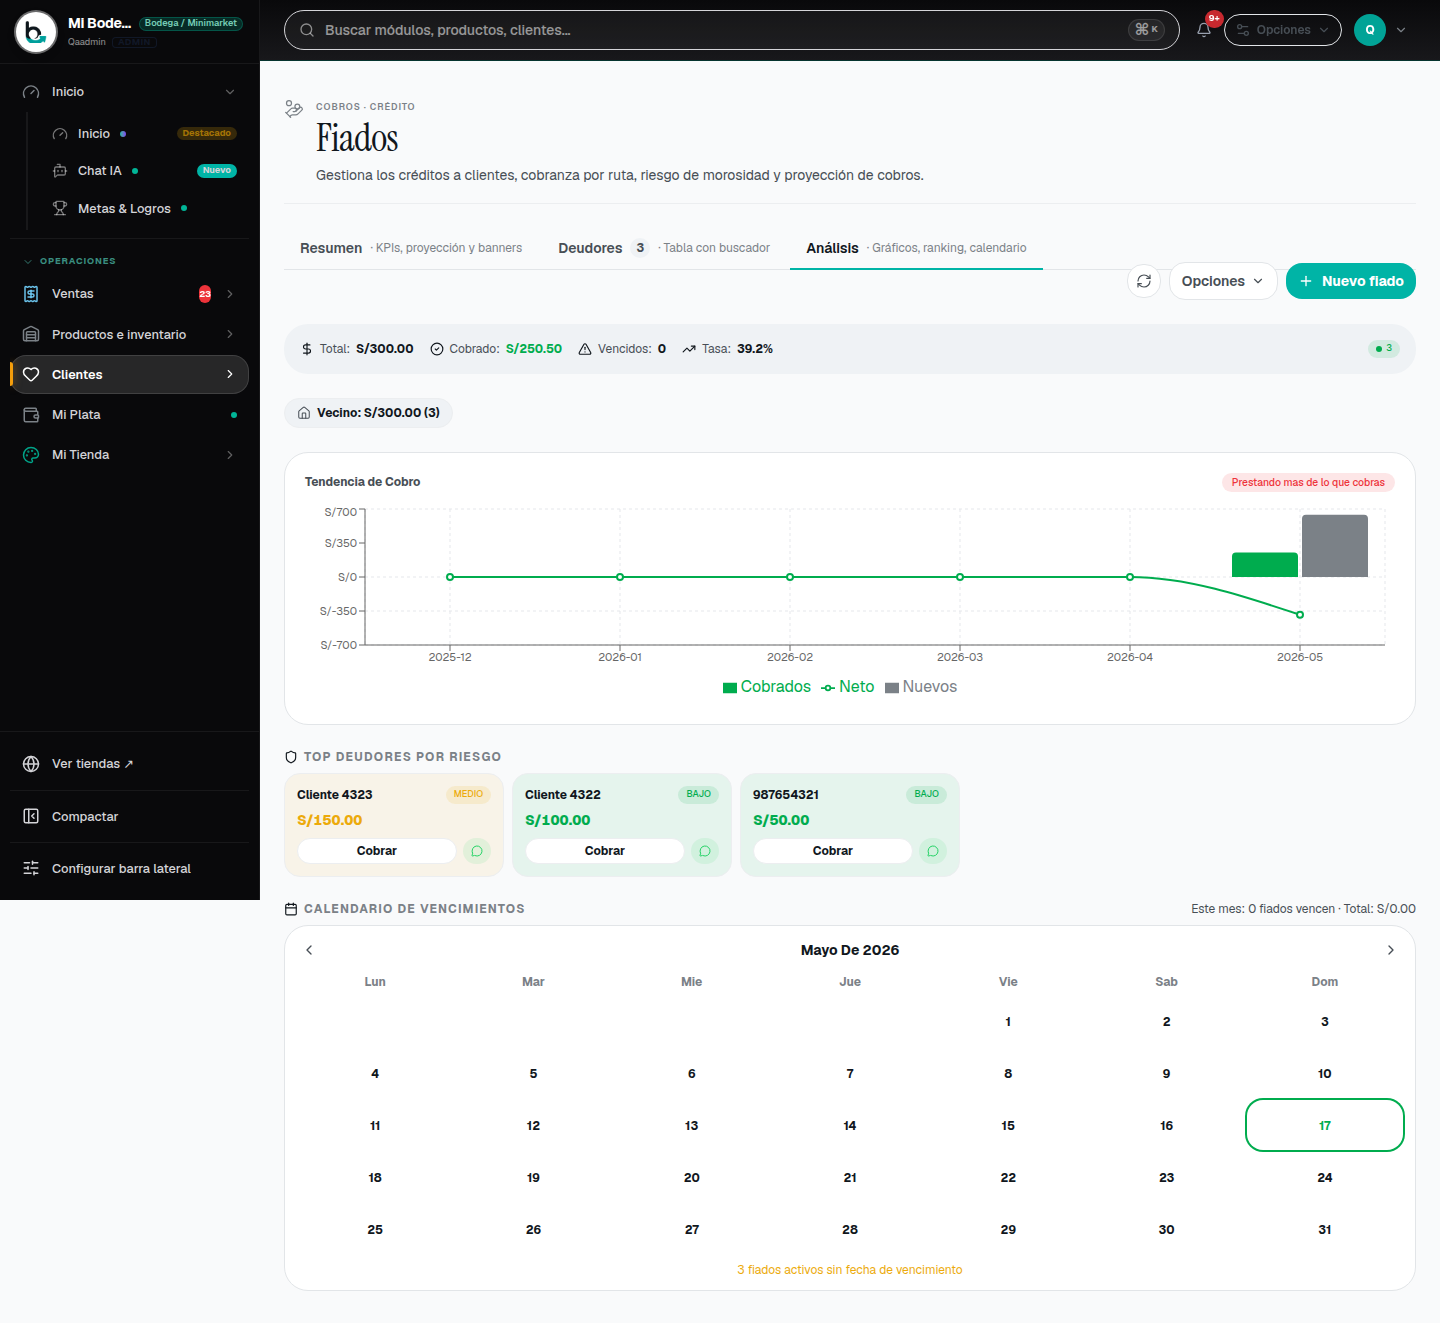
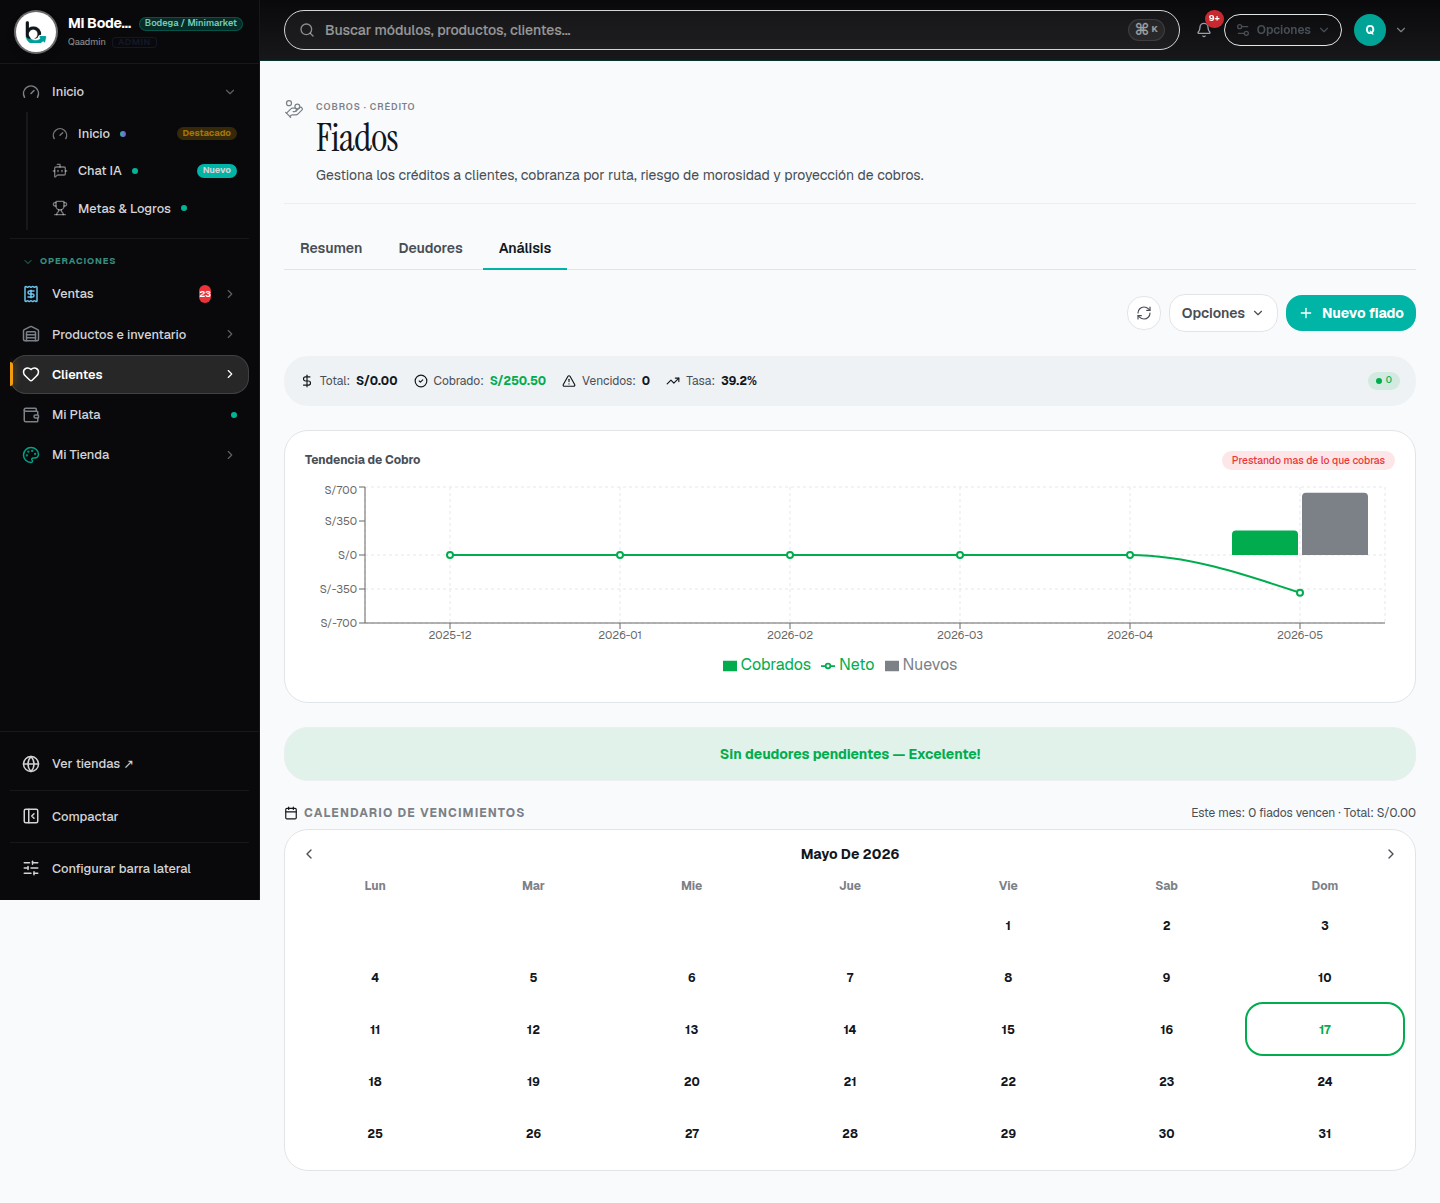
fix(fiados): tabs solo título + respiro entre tab nav y filtros (Deudores)
Brandon feedback:
  "pon solo el titulo (quita el texto descriptivo como 'KPIs, proyección'),
   y en deudores la sección de filtros está muy arriba"

Cambios:
- components/admin/FiadosModule.tsx
  · Tabs: removidos los `description` (KPIs, proyección y banners /
    Tabla con buscador / Gráficos, ranking, calendario). Ahora solo
    el label + badge. Mejor jerarquía visual.
  · Toolbar de filtros del tab Deudores: agregado `pt-2` para que no
    quede pegado al border-b del tab nav. También eliminé `-mb-2` del
    `<nav>` para no comerme el espacio del space-y-6 padre.

Screenshots regenerados: reports/audit-fiados/tabs/{01-resumen,02-deudores,03-analisis}.png

diff --git a/components/admin/FiadosModule.tsx b/components/admin/FiadosModule.tsx
@@ -311,10 +311,10 @@ export default function FiadosModule() {
 
   // Conteos para badges de tabs (se actualizan en vivo con los filtros).
   const vencidosTotales = fiados.filter(f => f.status === "VENCIDO" || (f.fechaVence && new Date(f.fechaVence) < new Date() && f.status === "ACTIVO")).length;
-  const TABS: Array<{ key: FiadoTab; label: string; description: string; badge?: number }> = [
-    { key: "resumen", label: "Resumen", description: "KPIs, proyección y banners" },
-    { key: "deudores", label: "Deudores", description: "Tabla con buscador", badge: fiados.filter(f => f.status === "ACTIVO" || f.status === "VENCIDO").length },
-    { key: "analisis", label: "Análisis", description: "Gráficos, ranking, calendario", badge: vencidosTotales > 0 ? vencidosTotales : undefined },
+  const TABS: Array<{ key: FiadoTab; label: string; badge?: number }> = [
+    { key: "resumen", label: "Resumen" },
+    { key: "deudores", label: "Deudores", badge: fiados.filter(f => f.status === "ACTIVO" || f.status === "VENCIDO").length },
+    { key: "analisis", label: "Análisis", badge: vencidosTotales > 0 ? vencidosTotales : undefined },
   ];
 
   // IDEA 1: Libreta Digital — Vista que replica la libreta de fiados de papel.
@@ -908,7 +908,7 @@ export default function FiadosModule() {
       <nav
         role="tablist"
         aria-label="Vistas del módulo Fiados"
-        className="flex flex-wrap gap-1 border-b border-[var(--rule-base)] -mb-2"
+        className="flex flex-wrap gap-1 border-b border-[var(--rule-base)]"
       >
         {TABS.map((t) => {
           const isActive = activeTab === t.key;
@@ -939,17 +939,16 @@ export default function FiadosModule() {
                   {t.badge}
                 </span>
               )}
-              <span className="hidden md:inline text-xs font-normal text-[var(--text-tertiary)]">
-                · {t.description}
-              </span>
             </button>
           );
         })}
       </nav>
 
       {/* Fila única — Buscador + filtros + contador + acciones (compacto, 1 row).
-          Solo visible en tab Deudores (los filtros afectan la tabla). */}
-      {activeTab === "deudores" && <div className="flex flex-wrap items-center gap-2">
+          Solo visible en tab Deudores (los filtros afectan la tabla).
+          Audit 2026-05-17 (UX): pt-2 para respiro extra entre el border del
+          tab nav y los filtros (antes pegados sin separación visual). */}
+      {activeTab === "deudores" && <div className="flex flex-wrap items-center gap-2 pt-2">
         <div className="relative flex-1 min-w-[220px] max-w-sm">
           <Search className="absolute left-3 top-1/2 -translate-y-1/2 w-4 h-4 text-[var(--text-tertiary)]" strokeWidth={1.75} aria-hidden />
           <input
